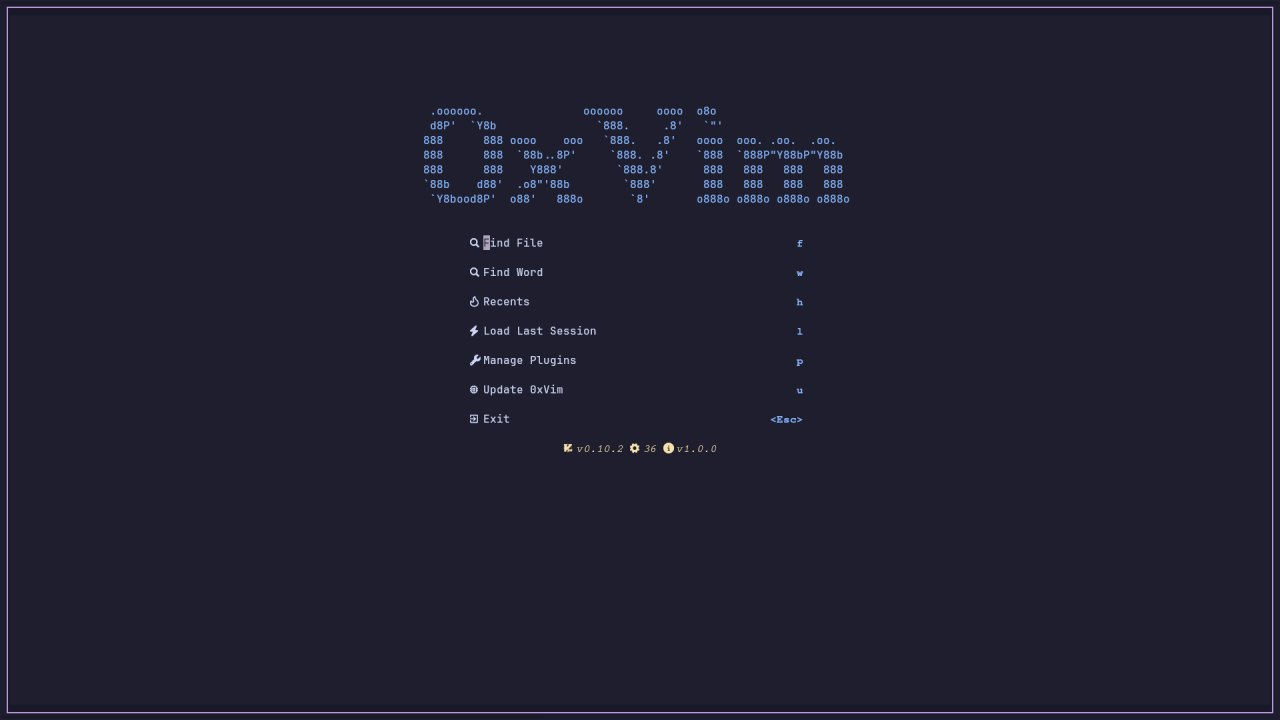
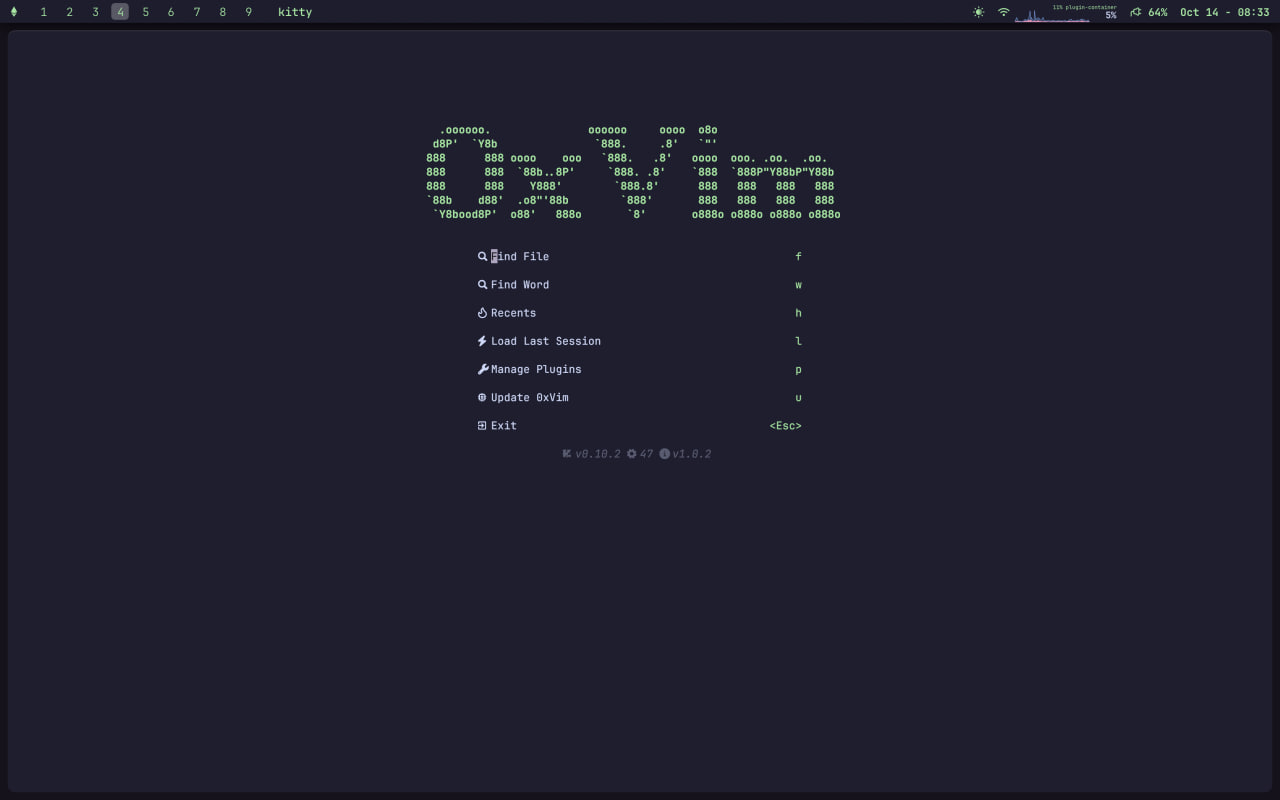
(docs): screenshots updated

diff --git a/README.md b/README.md
@@ -18,7 +18,7 @@
 
 Dashboard
 
-![Overview](./.screenshots/which-key.jpg)
+![Overview](./.screenshots/overview.jpg)
 
 Overview
 
